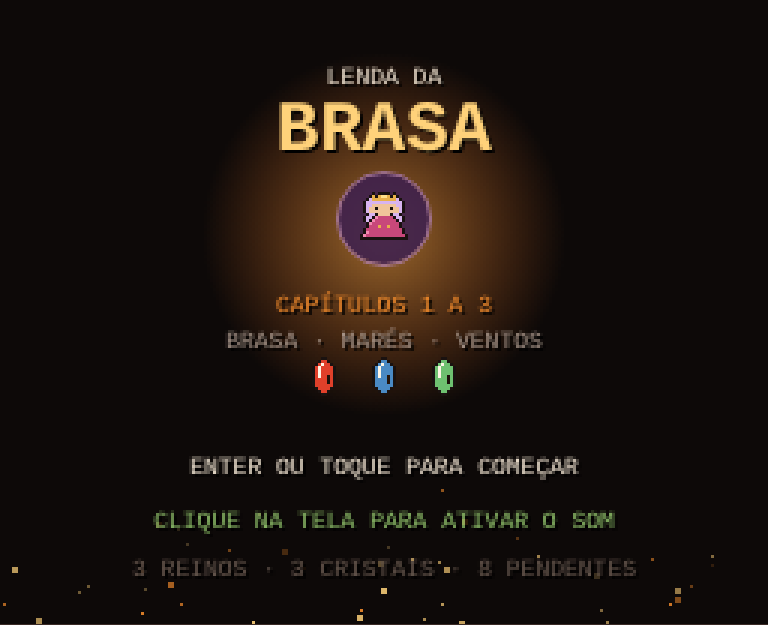
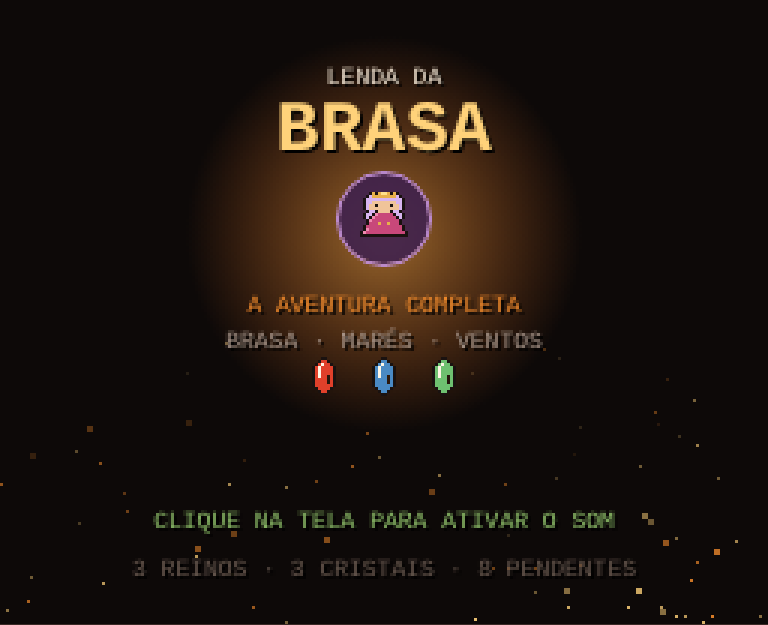
Guia: introdução e tela de título da aventura completa
Claude-Session: https://claude.ai/code/session_01Gu466RYet5PcdvmNdHnXqP

diff --git a/GUIA.md b/GUIA.md
@@ -1,6 +1,6 @@
 # Guia Completo — Lenda da Brasa
 
-Guia passo a passo para terminar os capítulos 1 a 3 e os 8 santuários de Lenda da Brasa, com a rota de cada castelo, onde estão os itens e como vencer cada chefe.
+Guia passo a passo para terminar Lenda da Brasa do começo ao fim — os 3 castelos, os 8 santuários, a Fortaleza Sombria e o Coração do Abismo, com a rota de cada castelo, onde estão os itens e como vencer cada chefe.
 
 ![Tela de título de Lenda da Brasa](guia/00_titulo.png)
 
